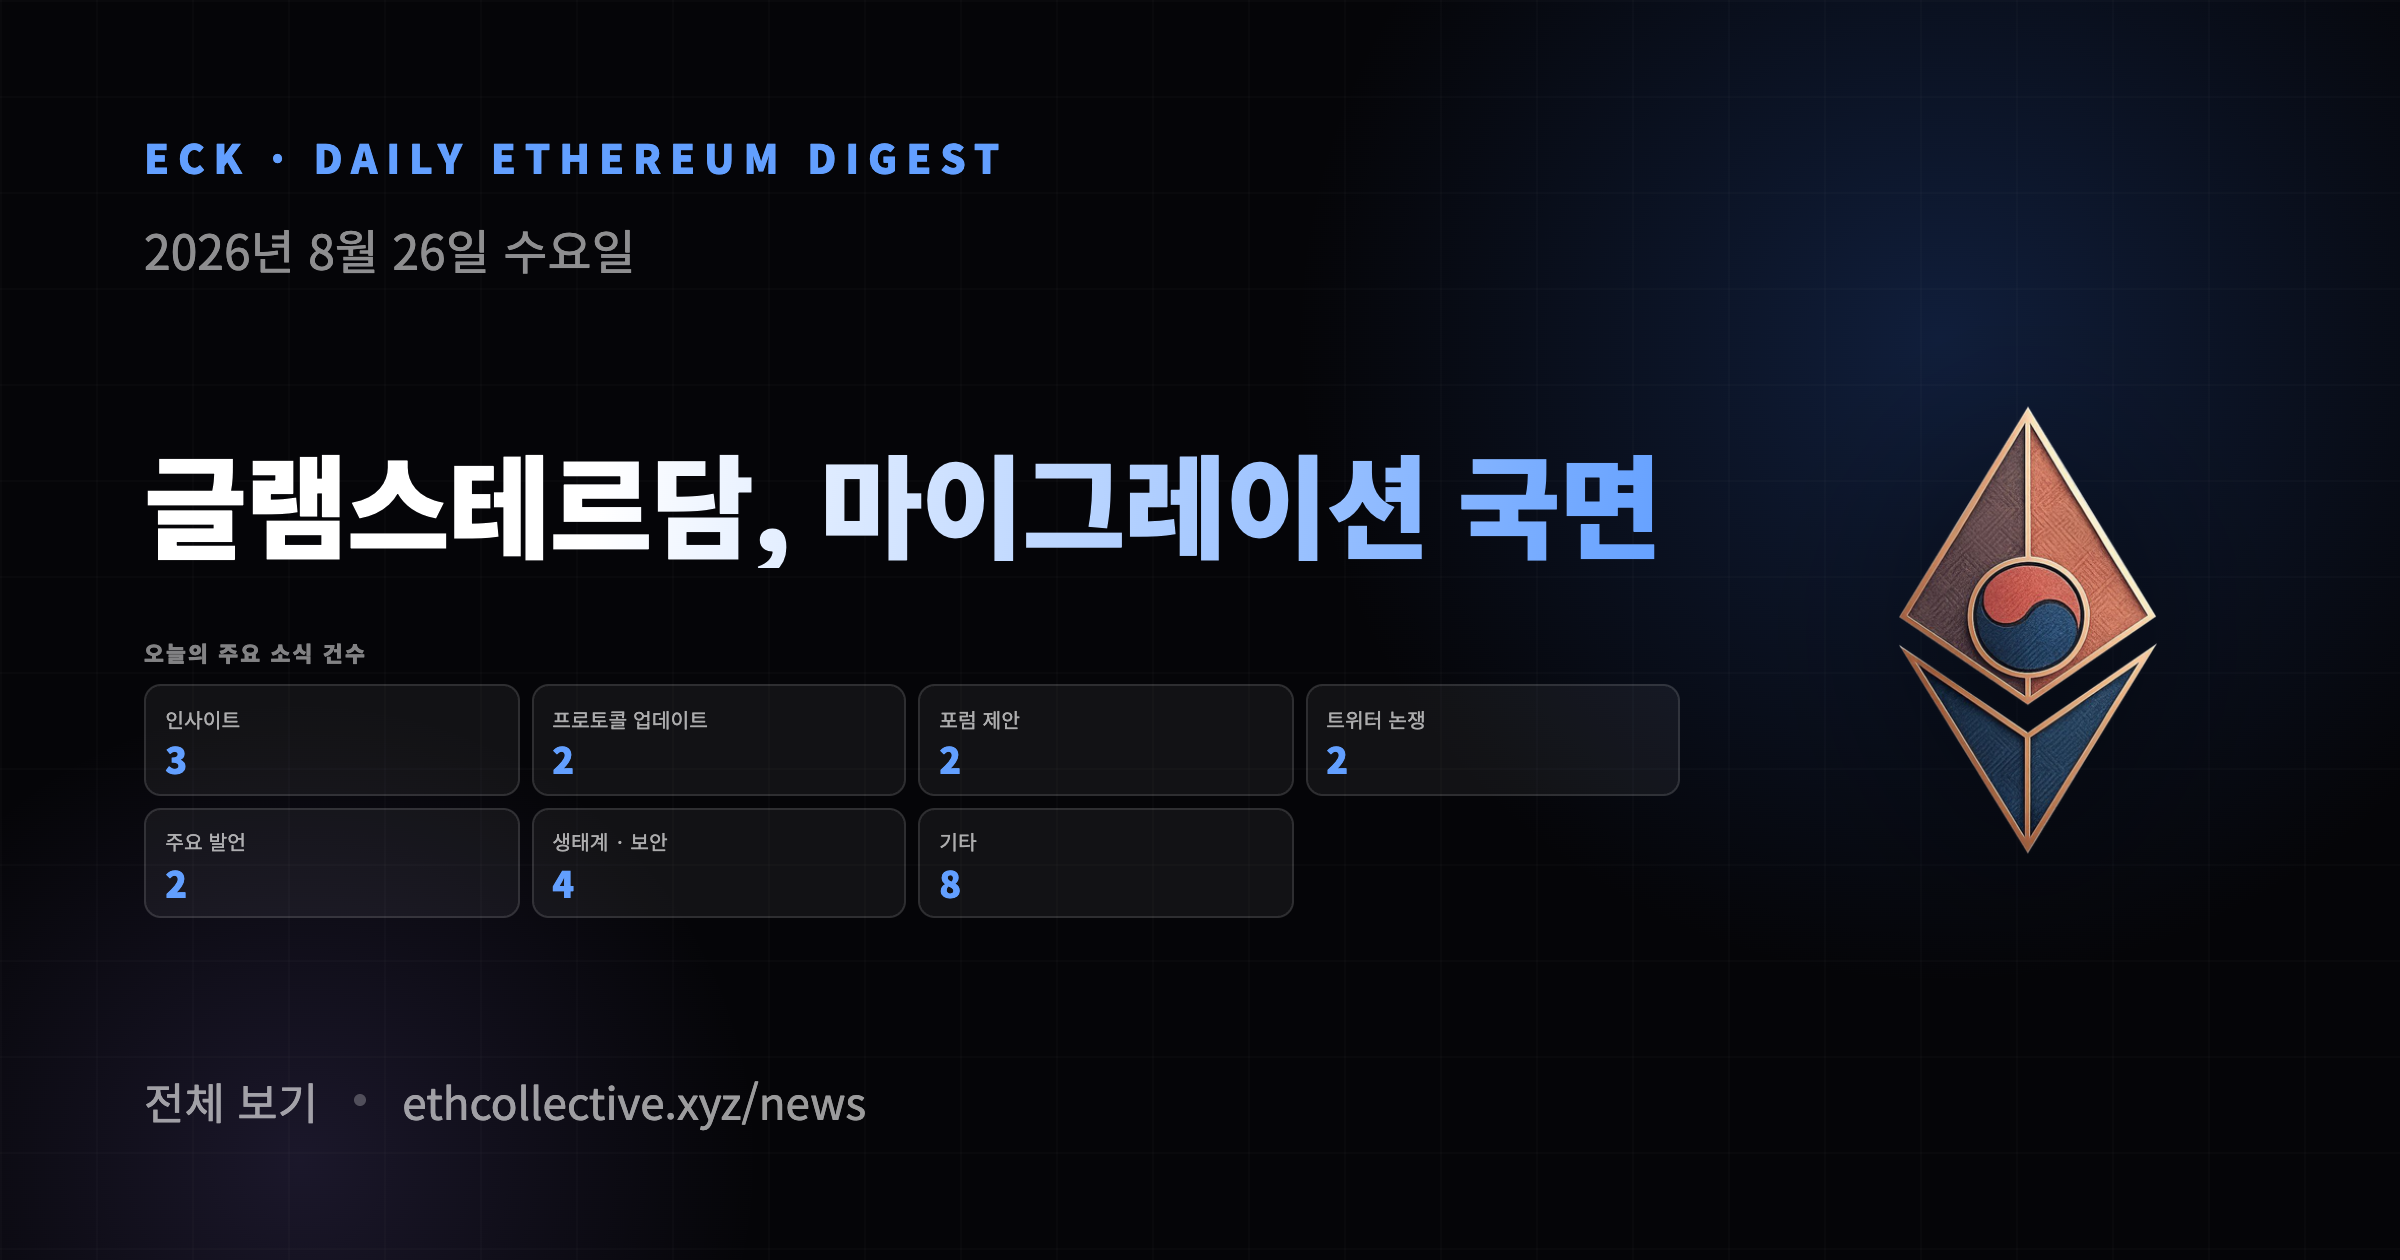
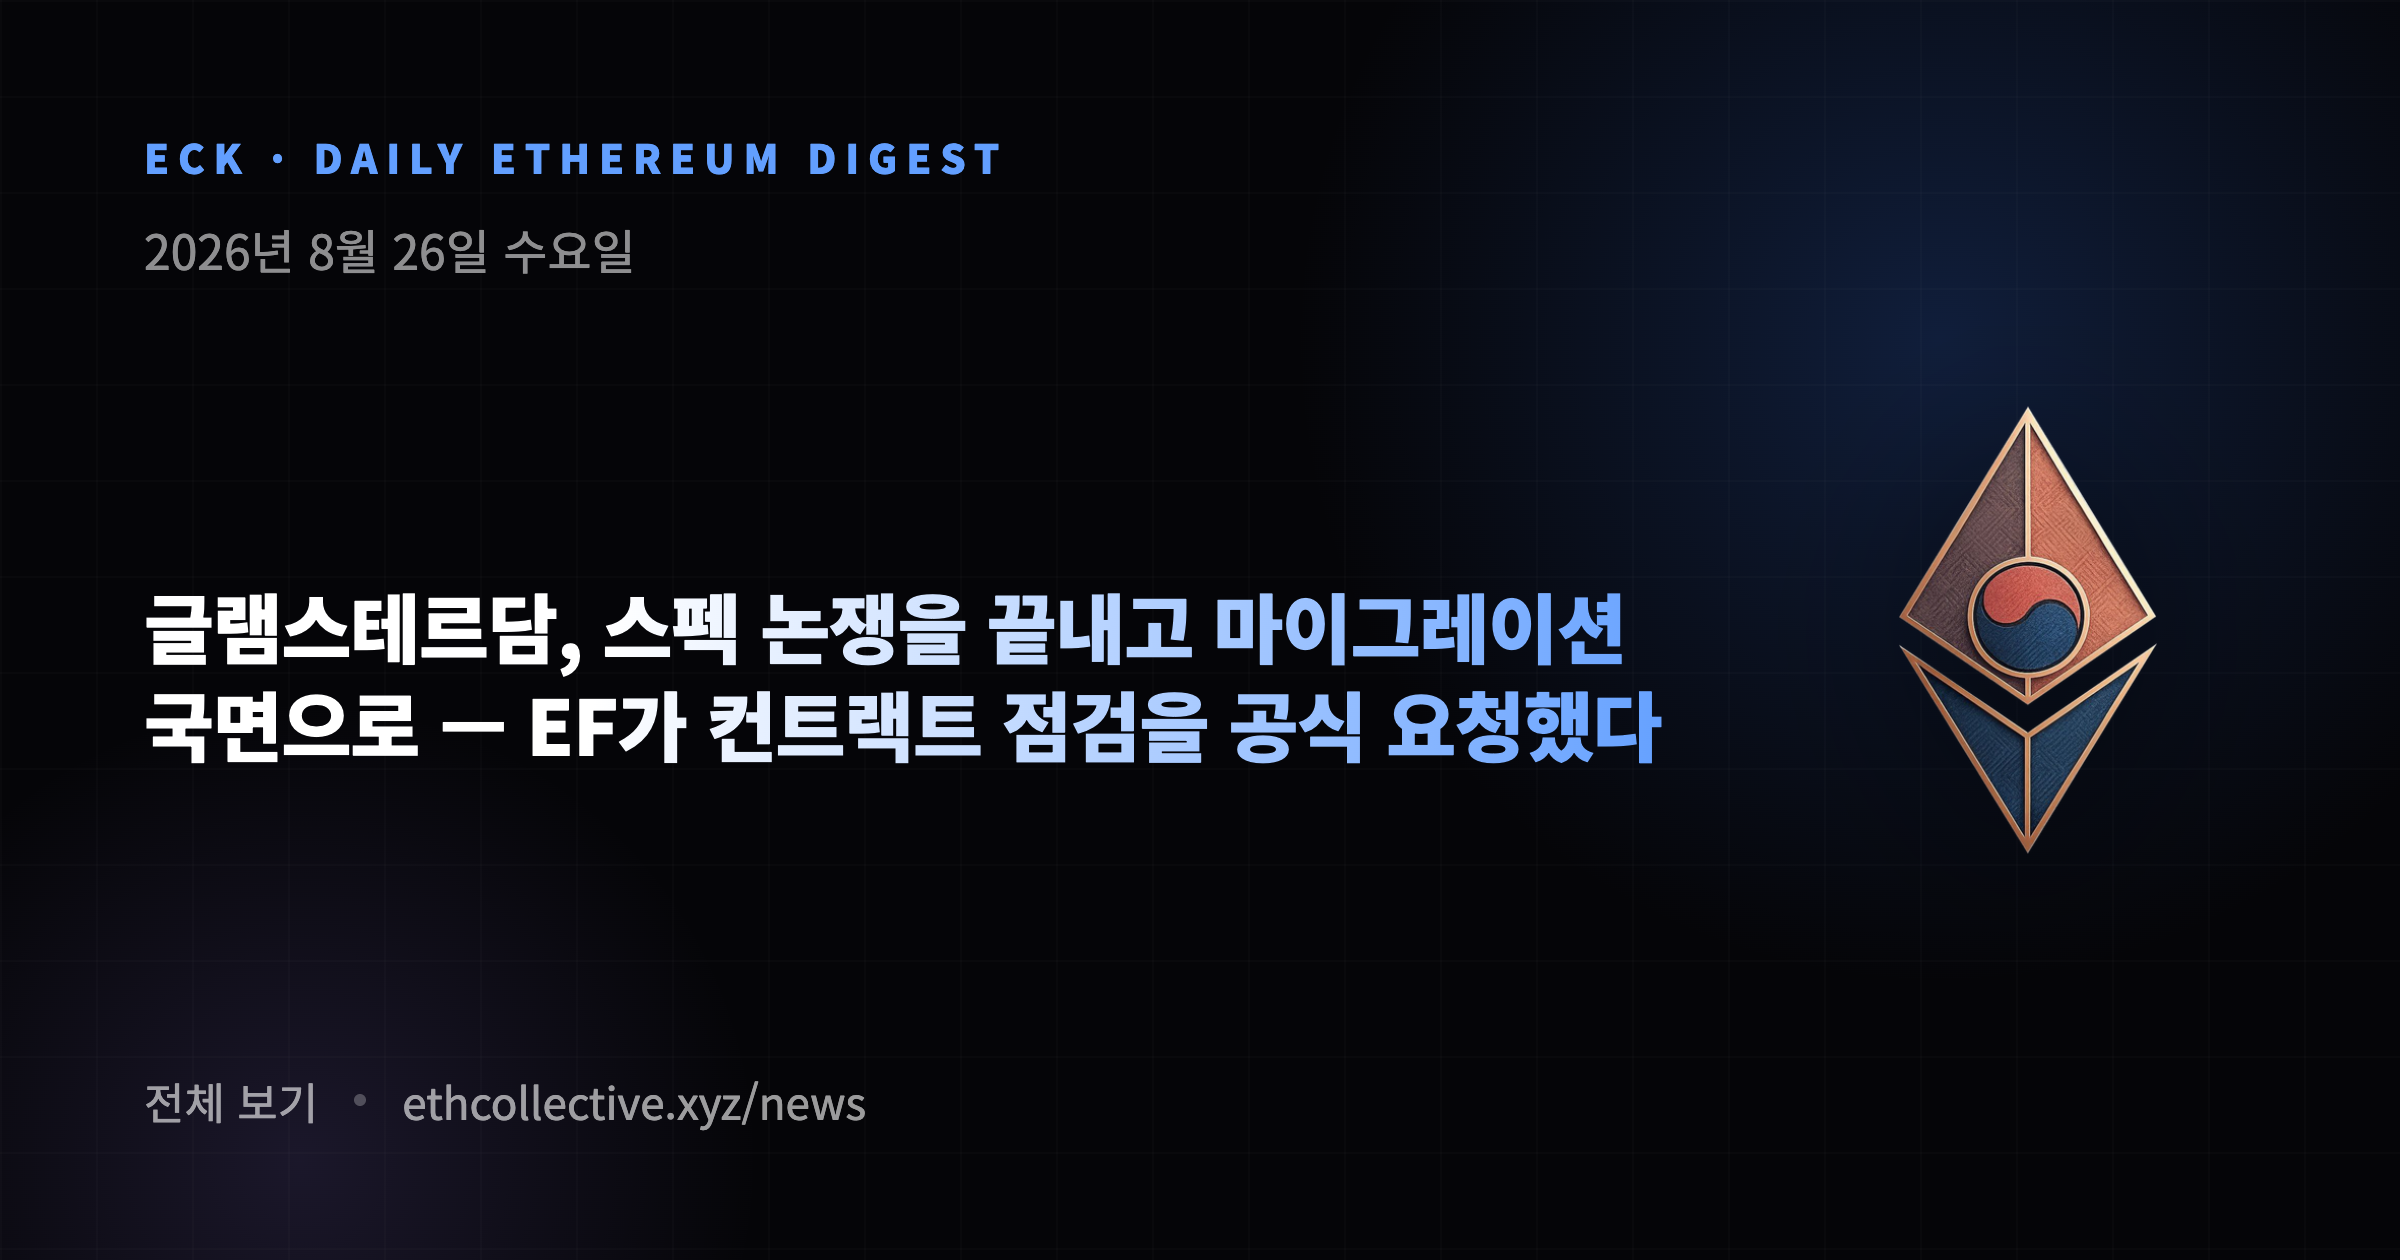
style: 커버 건수 그리드 제거, 전체 제목 2줄 표시 (실측 폰트 조정)

Changed region(s): [[0.0625, 0.3405, 0.6875, 0.7119]]

diff --git a/scripts/render-digest-cover.ts b/scripts/render-digest-cover.ts
@@ -48,28 +48,9 @@ function esc(s: string): string {
   return s.replace(/&/g, '&amp;').replace(/</g, '&lt;').replace(/>/g, '&gt;');
 }
 
-/** 커버 8칸 그리드 — 분류 체계 전체를 고정 슬롯으로 (없는 날은 0으로 표시) */
-const CATEGORY_SLOTS: Array<{ label: string; match: string }> = [
-  { label: '인사이트', match: '인사이트' },
-  { label: '프로토콜 업데이트', match: '프로토콜' },
-  { label: '포럼 제안', match: '포럼' },
-  { label: '트위터 논쟁', match: '논쟁' },
-  { label: '주요 발언', match: '발언' },
-  { label: '생태계 · 보안', match: '생태계' },
-  { label: '시장', match: '시장' },
-  { label: '기타', match: '그 밖' },
-];
-
 function coverHtml(digest: Digest, logoDataUri: string): string {
-  const headline = digest.shortTitle ?? digest.title;
-  // 0건 분류는 표시하지 않는다 — 남는 칸은 빈 채로 둔다
-  const cells = CATEGORY_SLOTS.map(({ label, match }) => ({
-    label,
-    count: digest.sections.find((s) => s.heading.includes(match))?.items.length ?? 0,
-  }))
-    .filter(({ count }) => count > 0)
-    .map(({ label, count }) => `<div class="cell"><span class="cat">${esc(label)}</span><span class="num">${count}</span></div>`)
-    .join('');
+  // 커버 메인은 전체 제목을 2줄로 크게 (폰트는 렌더 시 실측 조정)
+  const headline = digest.title;
   const dateLabel = new Date(`${digest.date}T00:00:00`).toLocaleDateString('ko-KR', {
     year: 'numeric',
     month: 'long',
@@ -98,19 +79,12 @@ function coverHtml(digest: Digest, logoDataUri: string): string {
     .wrap { position: relative; height: 100%; padding: 64px 360px 64px 72px; display: flex; flex-direction: column; }
     .eyebrow { font-size: 20px; font-weight: 700; letter-spacing: .22em; color: #629FFF; }
     .date { margin-top: 14px; font-size: 24px; color: rgba(255,255,255,.55); font-weight: 400; }
-    .mid { margin-top: auto; margin-bottom: auto; display: flex; flex-direction: column; gap: 34px; }
-    /* 폰트 크기는 렌더 시 실측으로 텍스트 존에 맞춰 최대화 (로고 존 침범 없음) */
-    .title { white-space: nowrap; font-size: 78px;
-      font-weight: 800; line-height: 1.2; letter-spacing: -.015em;
+    .mid { margin-top: auto; margin-bottom: auto; }
+    /* 2줄에 맞춰 렌더 시 실측으로 폰트 최대화 (로고 존 침범 없음) */
+    .title { font-size: 64px; font-weight: 800; line-height: 1.28; letter-spacing: -.015em;
+      word-break: keep-all; text-wrap: balance;
       background: linear-gradient(100deg, #fff 30%, #629FFF 100%);
       -webkit-background-clip: text; -webkit-text-fill-color: transparent; }
-    .panel { zoom: .6; }
-    .panel-label { font-size: 18px; font-weight: 700; letter-spacing: .1em; color: rgba(255,255,255,.5); }
-    .cells { margin-top: 14px; display: grid; grid-template-columns: repeat(4, 1fr); gap: 10px; }
-    .cell { display: flex; flex-direction: column; gap: 6px; padding: 14px 16px; border-radius: 14px;
-      background: rgba(255,255,255,.05); border: 1px solid rgba(255,255,255,.12); }
-    .cell .cat { font-size: 17px; color: rgba(255,255,255,.65); white-space: nowrap; }
-    .cell .num { font-size: 30px; font-weight: 800; color: #629FFF; line-height: 1; }
     .foot { display: flex; align-items: center; gap: 18px; font-size: 22px; color: rgba(255,255,255,.6); }
     .foot b { color: #A086FC; font-weight: 700; }
     .dot { width: 6px; height: 6px; border-radius: 50%; background: rgba(255,255,255,.25); }
@@ -126,10 +100,6 @@ function coverHtml(digest: Digest, logoDataUri: string): string {
       </div>
       <div class="mid">
         <div class="title">${esc(headline)}</div>
-        <div class="panel">
-          <div class="panel-label">오늘의 주요 소식 건수</div>
-          <div class="cells">${cells}</div>
-        </div>
       </div>
       <div class="foot">
         <span>전체 보기</span><span class="dot"></span>
@@ -170,12 +140,12 @@ async function main() {
   try {
     const page = await browser.newPage({ viewport: { width: 1200, height: 630 }, deviceScaleFactor: 2 });
     await page.setContent(coverHtml(digest, logoDataUri), { waitUntil: 'networkidle' });
-    // 타이틀을 텍스트 존 폭에 맞춰 실측으로 최대 크기 조정 (한 줄 보장)
+    // 타이틀을 2줄 이내에 맞춰 실측으로 최대 크기 조정
     await page.evaluate(() => {
       const el = document.querySelector('.title') as HTMLElement;
-      let size = 78;
+      let size = 72;
       el.style.fontSize = `${size}px`;
-      while (size > 40 && el.scrollWidth > el.clientWidth) {
+      while (size > 36 && el.scrollHeight > size * 1.28 * 2 + 4) {
         size -= 2;
         el.style.fontSize = `${size}px`;
       }
